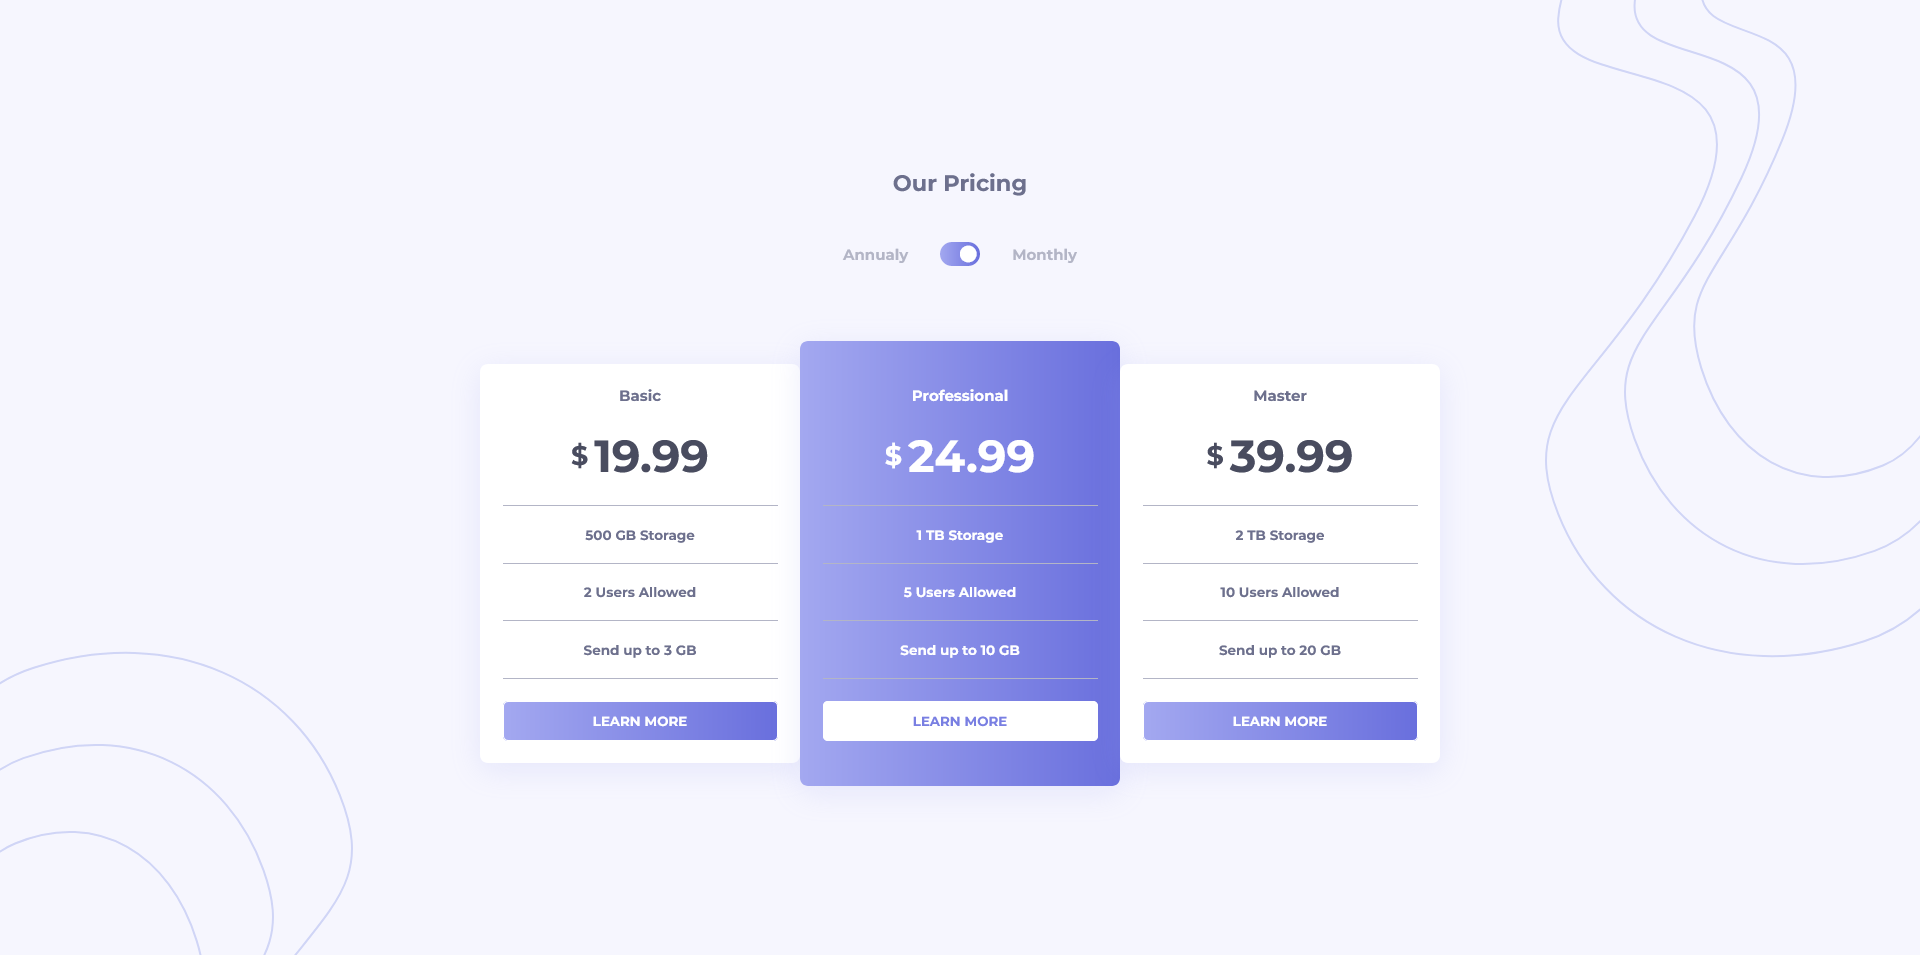
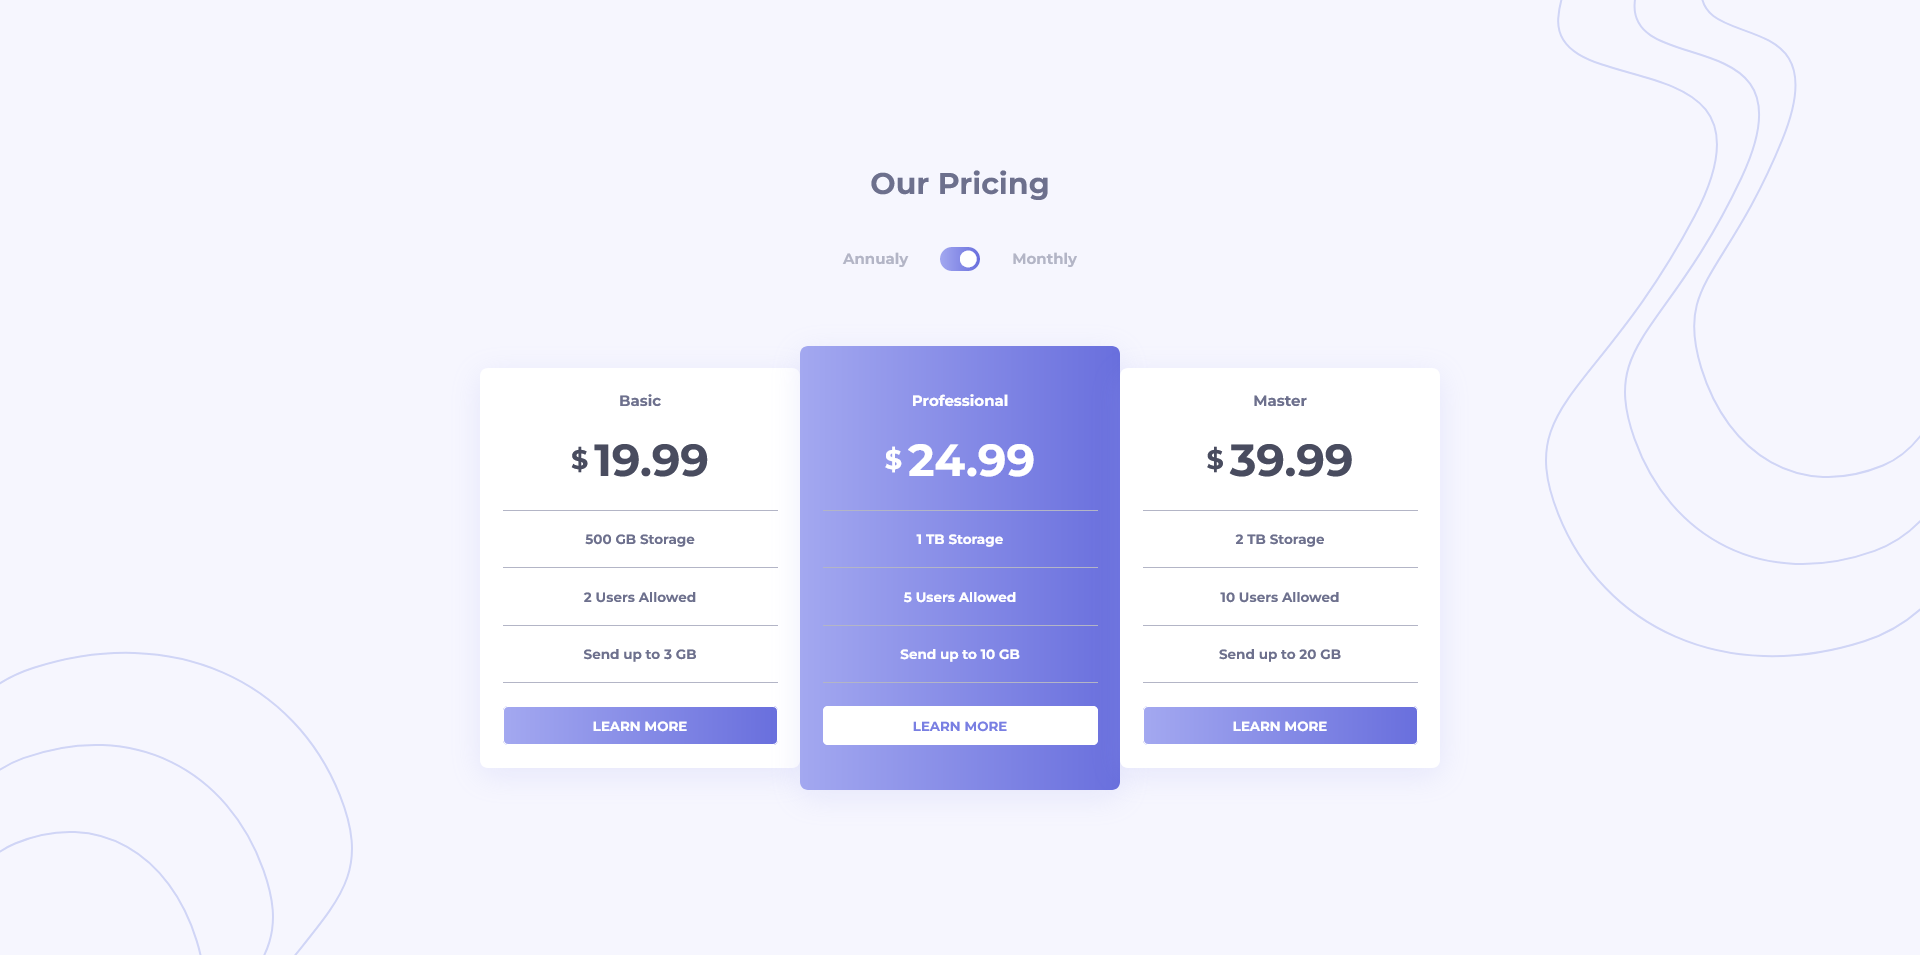
fix text button and font size of h1

diff --git a/index.html b/index.html
@@ -27,9 +27,9 @@
         <h1>Our Pricing</h1>
         <div class="type-payment">
           <span>Annualy</span>
-          <button class="toggle" id="toggle">
+          <span class="toggle" id="toggle">
             <i class="bx bxs-circle"></i>
-          </button>
+          </span>
           <span>Monthly</span>
         </div>
         <div class="list-prices">

diff --git a/css/style.css b/css/style.css
@@ -58,6 +58,7 @@ body{
 h1{
     color: var(--color-text);
     text-align: center;
+    font-size: 2em;
 }
 
 .list-prices{
@@ -85,7 +86,6 @@ h1{
     justify-content: end;
     border-radius: 50px;
     padding: 2px;
-    border: none;
     cursor: pointer;
 
 }
